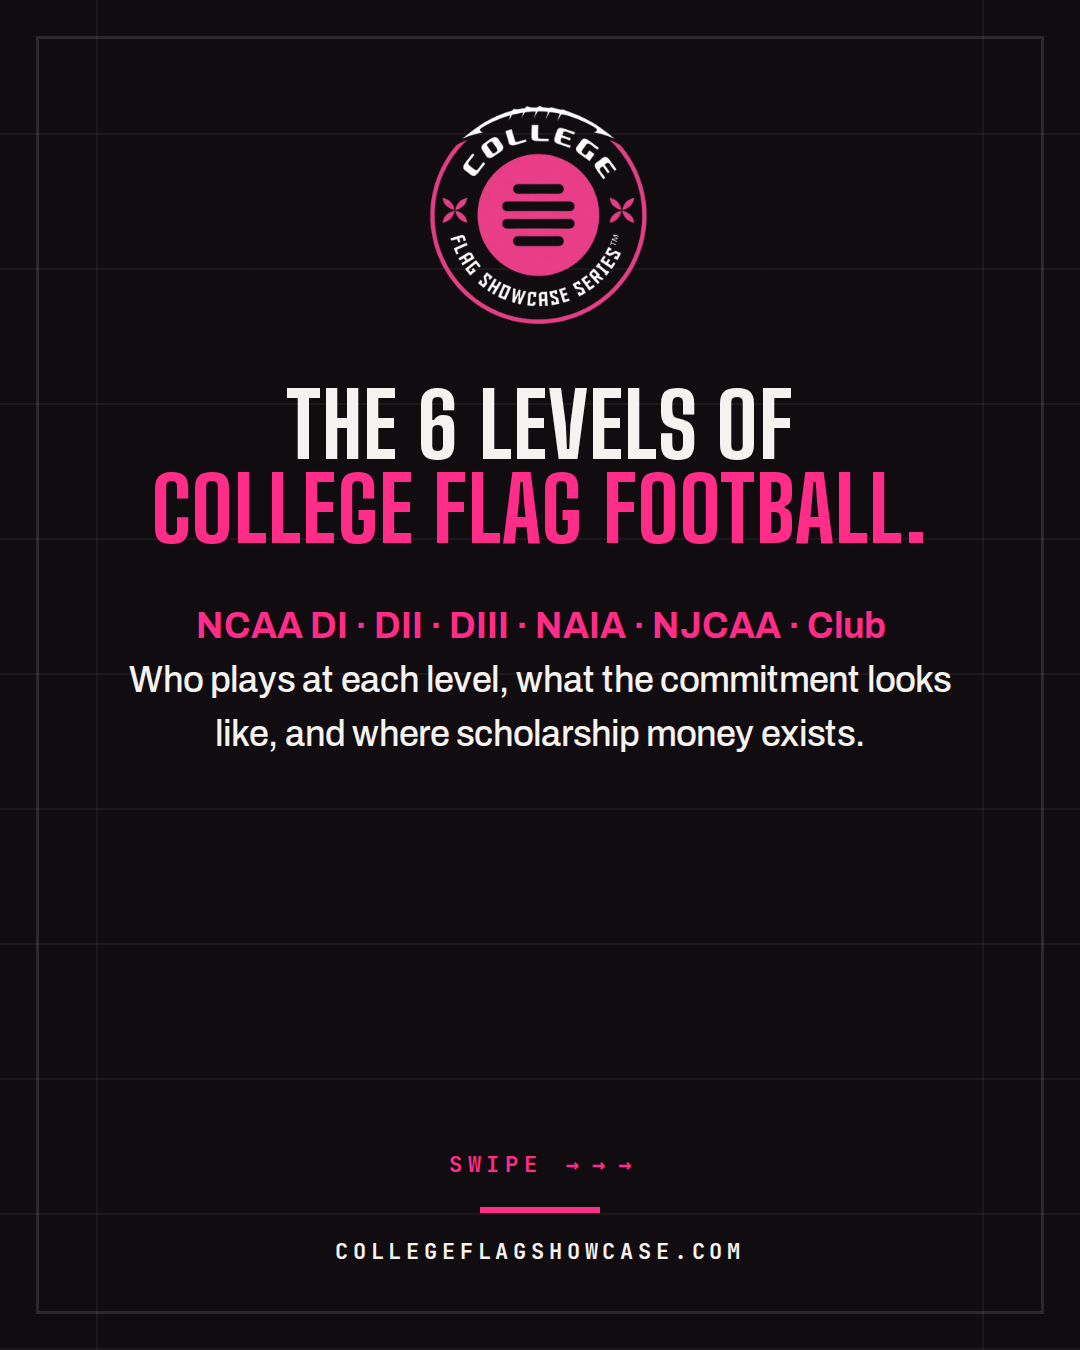
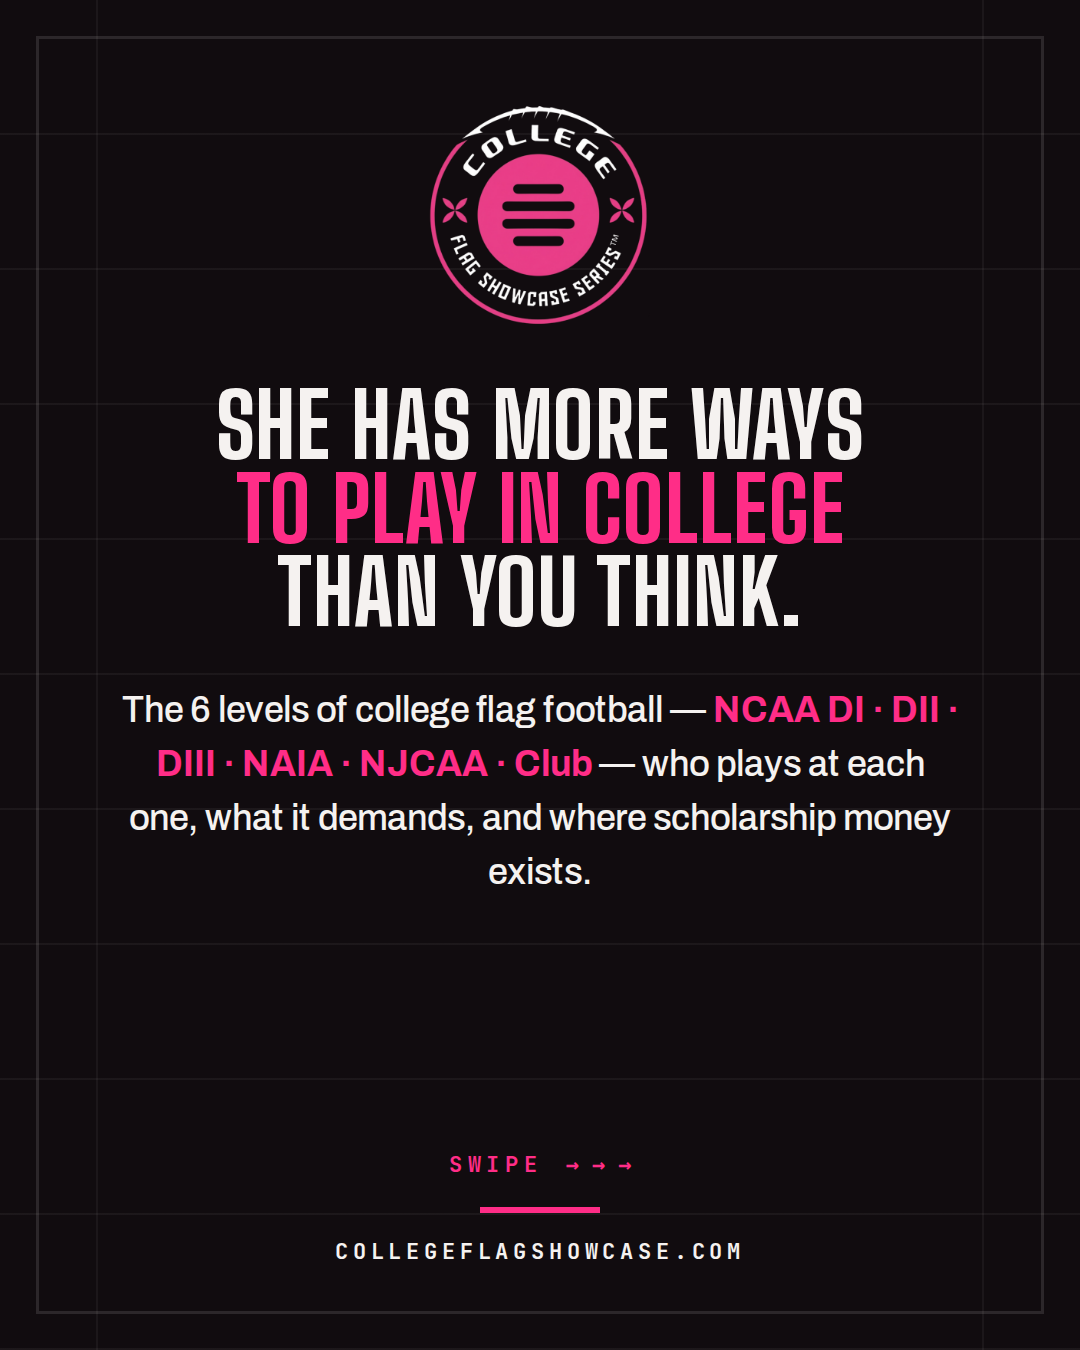
Strengthen levels carousel cover hook
Claude-Session: https://claude.ai/code/session_019V32boShoBmRrwWenCPJFc

Changed region(s): [[0.1222, 0.28, 0.8861, 0.6533]]

diff --git a/collateral/ig-carousel-divisions.html b/collateral/ig-carousel-divisions.html
@@ -60,8 +60,8 @@
   <div class="yards"></div><div class="hash l"></div><div class="hash r"></div><div class="frame"></div>
   <div class="inner center">
     <img class="logo" src="../public/logo.png" alt="College Flag Showcase Series" />
-    <h1 class="cover-title">The 6 levels of<br /><em>college flag football.</em></h1>
-    <p class="cover-body"><b>NCAA DI &middot; DII &middot; DIII &middot; NAIA &middot; NJCAA &middot; Club</b><br />Who plays at each level, what the commitment looks like, and where scholarship money exists.</p>
+    <h1 class="cover-title">She has more ways<em>to play in college</em>than you think.</h1>
+    <p class="cover-body">The 6 levels of college flag football &mdash; <b>NCAA DI &middot; DII &middot; DIII &middot; NAIA &middot; NJCAA &middot; Club</b> &mdash; who plays at each one, what it demands, and where scholarship money exists.</p>
     <p class="swipe">Swipe<span>&nbsp;&rarr;&nbsp;&rarr;&nbsp;&rarr;</span></p>
     <div class="rule cover-rule"></div>
     <p class="foot"><b>collegeflagshowcase.com</b></p>
